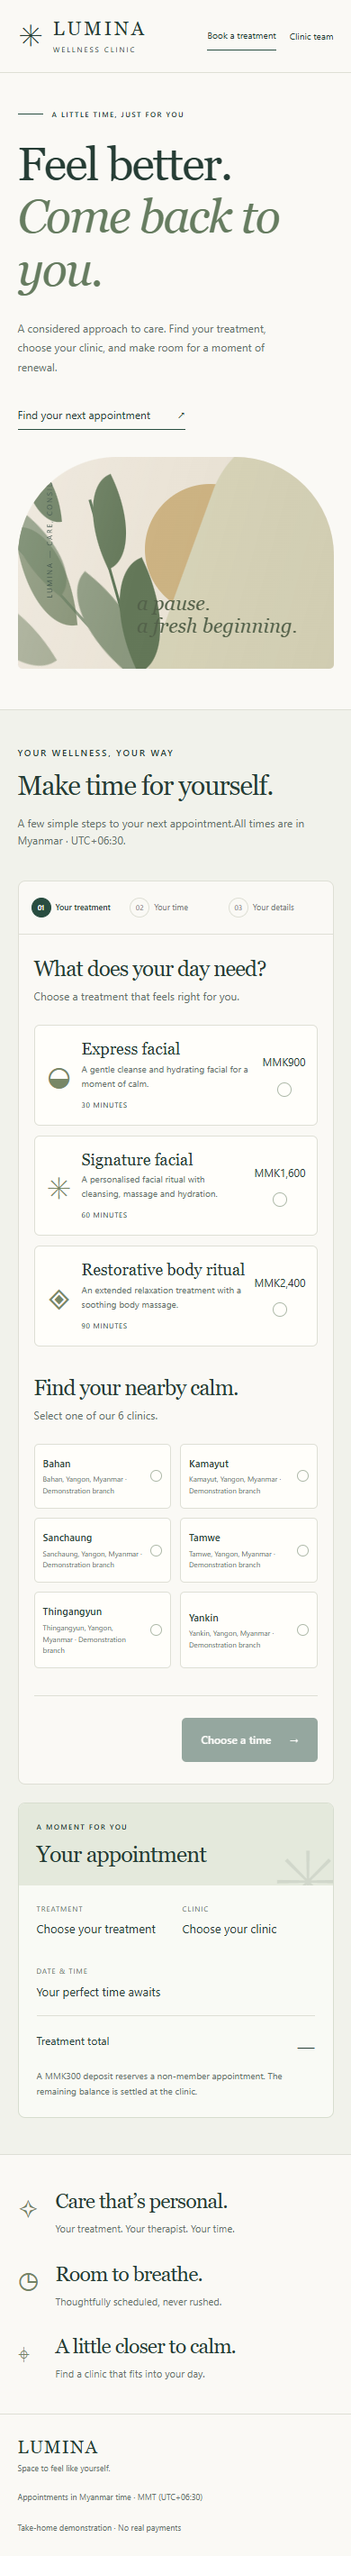
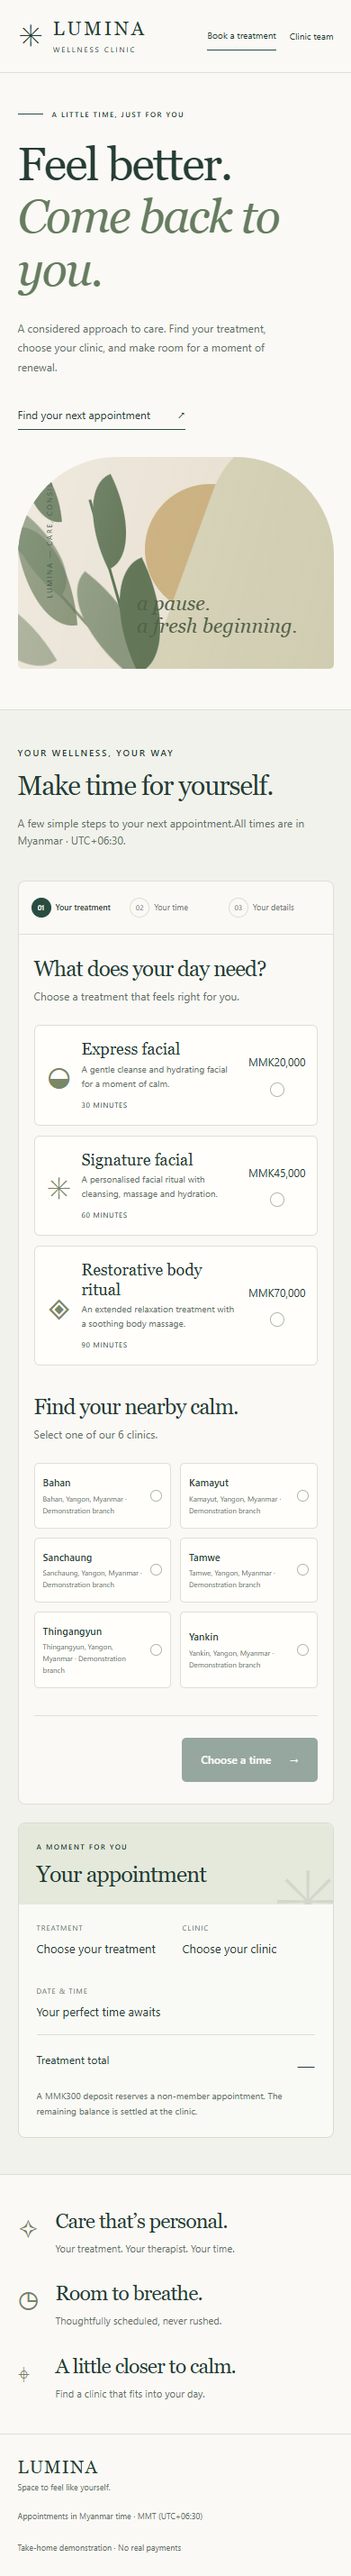
Update treatment prices to 20000, 45000 and 70000 MMK

diff --git a/src/main/frontend/e2e/booking.e2e.ts b/src/main/frontend/e2e/booking.e2e.ts
@@ -41,7 +41,11 @@ test('client books, pays once, reloads, cancels and reception records the refund
     'Yankin',
   ]);
   await expect(page.locator('footer')).toContainText('Myanmar time · MMT (UTC+06:30)');
-  await expect(page.locator('.treatment-card').first()).toContainText(/MMK\s*900/);
+  await expect(page.locator('.treatment-card')).toContainText([
+    /MMK\s*20,000/,
+    /MMK\s*45,000/,
+    /MMK\s*70,000/,
+  ]);
   await expect(page.locator('.site-header')).toHaveCSS('display', 'flex');
   await expect(page.locator('.hero-art')).toHaveCSS('position', 'relative');
   await page.screenshot({ path: testInfo.outputPath('landing-desktop.png'), fullPage: true });

diff --git a/src/test/java/com/lumina/clinic/BookingApiIT.java b/src/test/java/com/lumina/clinic/BookingApiIT.java
@@ -85,6 +85,9 @@ class BookingApiIT {
         assertThat(catalog.path("currency").asText()).isEqualTo("MMK");
         assertThat(catalog.path("depositAmount").decimalValue()).isEqualByComparingTo("300.00");
         assertThat(catalog.path("timeZone").asText()).isEqualTo("Asia/Yangon");
+        assertThat(catalog.path("treatments").get(0).path("price").decimalValue()).isEqualByComparingTo("20000.00");
+        assertThat(catalog.path("treatments").get(1).path("price").decimalValue()).isEqualByComparingTo("45000.00");
+        assertThat(catalog.path("treatments").get(2).path("price").decimalValue()).isEqualByComparingTo("70000.00");
         List<String> names = new ArrayList<>();
         for (JsonNode branch : catalog.path("branches")) {
             names.add(branch.path("name").asText());

diff --git a/README.md b/README.md
@@ -6,7 +6,7 @@ The implementation uses encapsulated domain state, constructor injection, policy
 
 **Source:** [ThuYa446/lumina-clinic](https://github.com/ThuYa446/lumina-clinic), branch `main`. GitHub Actions verifies the integrated build, PostgreSQL rules and browser flow. Render is configured to deploy `main` after its checks pass.
 
-**Deployment status:** GitHub CI passed all 49 tests, and the production configuration connects to Neon with verified TLS. Render authentication succeeded, but creating the Free service returned HTTP 402 (`Payment information is required`). A public URL is pending that account requirement. [Deploy this repository to Render](https://render.com/deploy?repo=https://github.com/ThuYa446/lumina-clinic). The [deployment guide](docs/deployment.md) explains the database and secret values.
+**Live demo:** [lumina-clinic.onrender.com](https://lumina-clinic.onrender.com). The Render Free service runs in Ohio alongside Neon and deploys `main` after CI checks pass. Its health endpoint and Myanmar/MMK catalogue were verified on 10 September 2026. The [deployment guide](docs/deployment.md) explains the database and secret values.
 
 **Demo with production-oriented structure:** payments are simulated and membership uses one configured demo code/email. Use fictional client details. Actual clinic launch still requires the integrations and operations work under Not done.
 
@@ -19,7 +19,7 @@ The implementation uses encapsulated domain state, constructor injection, policy
 | Booking flowchart | [SVG](docs/booking-flow.svg), [Mermaid and explanation](docs/booking-flow.md) |
 | Working system | `src/main/java`, `src/main/frontend`, `src/main/resources/db/migration` |
 | Tests and actual failure proof | Java unit/integration, Angular and browser tests; [mutation evidence](docs/test-evidence/mutation-failure.txt) |
-| Deployment | [Render + Neon guide](docs/deployment.md), [blueprint](render.yaml), [container](Dockerfile); account connection pending |
+| Deployment | [Live demo](https://lumina-clinic.onrender.com), [Render + Neon guide](docs/deployment.md), [blueprint](render.yaml), [container](Dockerfile) |
 | Decisions and six-week plan | [Assumptions and delivery](docs/assumptions-and-delivery.md) |
 
 ## Run it
@@ -85,7 +85,7 @@ The Docker build executes the same Maven frontend/backend build. Open localhost:
 
 Times are **Asia/Yangon (Myanmar time, UTC+06:30)** and the deposit is **MMK 300 (Myanmar kyat)**, as requested. The six demonstration branches are **Bahan, Kamayut, Sanchaung, Tamwe, Thingangyun and Yankin** in Yangon. Monday–Saturday 09:00–18:00 hours, addresses, treatments, prices, rooms and therapists remain fictional demo data. Policy constants are centralized in `BookingPolicy`; Angular date formatting uses a shared Myanmar offset regardless of the visitor's browser time zone.
 
-Flyway migration V4 updates the existing demo branch records without changing their IDs. New bookings use MMK for their deposits and payments. Existing bookings retain their recorded amounts, currency and appointment instants; no exchange-rate conversion or appointment rescheduling is performed. Demo treatment prices remain 900, 1,600 and 2,400, now quoted in MMK.
+Flyway migration V4 updates the existing demo branch records without changing their IDs. New bookings use MMK for their deposits and payments. Existing bookings retain their recorded amounts, currency and appointment instants; no exchange-rate conversion or appointment rescheduling is performed. Migration V5 sets the requested treatment prices: Express facial (30 minutes) **MMK 20,000**, Signature facial (60 minutes) **MMK 45,000**, and Restorative body ritual (90 minutes) **MMK 70,000**. The appointment deposit is MMK 300.
 
 ### Development and tests
 

diff --git a/docs/verification.md b/docs/verification.md
@@ -47,4 +47,8 @@ The Myanmar update passed **49 tests in total** (30 Java unit, 10 PostgreSQL int
 
 ## Boundaries
 
-Docker configuration was parsed, but the Docker daemon was not available for an actual image build/container run. GitHub Actions has now passed remotely with PostgreSQL 17 and Chromium. Neon is connected and the application schema is provisioned. Render authentication succeeded, but service creation with `plan: free` returned HTTP 402 (`Payment information is required`); no Render service or public deployment URL has been verified. No real payment, membership provider, WhatsApp/email delivery or production load test was performed. These are recorded limitations, not passing checks.
+The local Docker daemon was unavailable, but Render subsequently built the Docker image and deployed the service successfully. GitHub Actions passed remotely with PostgreSQL 17 and Chromium. The [public demo](https://lumina-clinic.onrender.com) is live on the Free plan in Ohio with Neon; `/actuator/health` returned `UP`, and `/api/catalog` returned six Myanmar branches, Asia/Yangon and MMK on 10 September 2026. The owner completed service creation after the earlier API payment-information blocker. No real payment, membership provider, WhatsApp/email delivery or production load test was performed. These are recorded limitations, not passing checks.
+
+## Treatment price update
+
+Migration V5 sets Express facial to MMK 20,000, Signature facial to MMK 45,000 and Restorative body ritual to MMK 70,000. The backend build passed all 30 Java unit tests and 10 PostgreSQL integration tests; the catalogue contract asserts all three prices. All 3 browser tests passed in 13.5 seconds and assert the rendered prices. The existing local V4 database upgraded successfully, the packaged JAR includes V5, and desktop/mobile screenshots were refreshed. The deposit remains MMK 300.

diff --git a/docs/technical-notes.md b/docs/technical-notes.md
@@ -190,4 +190,4 @@ The Spring runtime serves static frontend assets and the API; PostgreSQL persist
 
 Migration V4 renames the six existing demo branch records to Yangon locations by stable ID. Earlier migrations remain unchanged so an existing installation can upgrade with valid Flyway checksums. Appointment instants remain stored as PostgreSQL `timestamptz`; the API projects them into `Asia/Yangon`. Angular shares a `+0630` DatePipe default and uses the IANA zone for calendar dates, independent of server and browser defaults. Browser tests run in America/New_York to exercise that separation.
 
-New bookings snapshot MMK and the 300 deposit. Existing booking and payment snapshots retain their original currency, amounts and instants, including any legacy THB records. This is a demo currency configuration change, with no exchange-rate conversion or rescheduling. Treatment prices retain their illustrative numeric values (900, 1,600 and 2,400), quoted in MMK for new bookings.
+New bookings snapshot MMK and the 300 deposit. Existing booking and payment snapshots retain their original currency, amounts and instants, including any legacy THB records. This is a demo currency configuration change, with no exchange-rate conversion or rescheduling. Migration V5 updates the treatment catalogue to the requested MMK prices: 20,000 for Express facial (30 minutes), 45,000 for Signature facial (60 minutes), and 70,000 for Restorative body ritual (90 minutes). It does not change recorded deposits or payments.

diff --git a/docs/assumptions-and-delivery.md b/docs/assumptions-and-delivery.md
@@ -32,7 +32,7 @@ The code demonstrates independently calculated availability, resource reservatio
 - Staff access is a single configured account, not identity-provider SSO, MFA, individual accounts, access review or a complete audit trail.
 - The diary does not yet provide the full operations workflow: booking import, authenticated assisted bookings, roster editing, equipment downtime and staff overrides.
 - Retention/deletion automation, clinical consent, reminders, waiting lists and rescheduling need defined policies and further implementation.
-- Source is pushed to GitHub and CI passed. Render and Neon authentication succeeded, and the Neon schema is provisioned. Render currently rejects Free service creation with HTTP 402 until its account payment-information requirement is resolved. A public URL remains pending; see the verification record for observed results.
+- Source is pushed to GitHub and CI passed. The [Render Free demo](https://lumina-clinic.onrender.com) is live in Ohio with Neon; public health and Myanmar/MMK catalogue checks passed. See the verification record for observed results and remaining operational limits.
 - The free review environment is not a production service commitment. Recovery procedures, monitoring alerts, load testing, backup policy and payment/security reviews are launch gates.
 
 ## Delivery milestones

diff --git a/docs/deployment.md b/docs/deployment.md
@@ -2,7 +2,7 @@
 
 **Provider documentation checked 10 September 2026.** This repository contains deployment configuration; an online service has not been provisioned by these files alone. A verified public URL requires access to the account owner's Git repository, Render account and Neon database. Do not put credentials in source control or claim a URL that has not passed the checks below.
 
-**Current attempt:** source is pushed, GitHub CI passed, both providers are authenticated, and the Neon schema is provisioned. Render returned HTTP 402 (`Payment information is required`) when creating the explicitly Free web service. Resolve the requirement in the owner's Render workspace before retrying. The service has not been created and there is no verified public URL yet. The API documents this response as requiring payment information. [Render service creation responses](https://api-docs.render.com/reference/create-service).
+**Live deployment:** [lumina-clinic.onrender.com](https://lumina-clinic.onrender.com). The owner created the Render Free service in Ohio, connected to the Neon database. `main` is configured to deploy after CI checks pass. Public health and Myanmar/MMK catalogue checks passed on 10 September 2026. The earlier API payment-information blocker is resolved for this service.
 
 ## Architecture and free-tier limits
 
